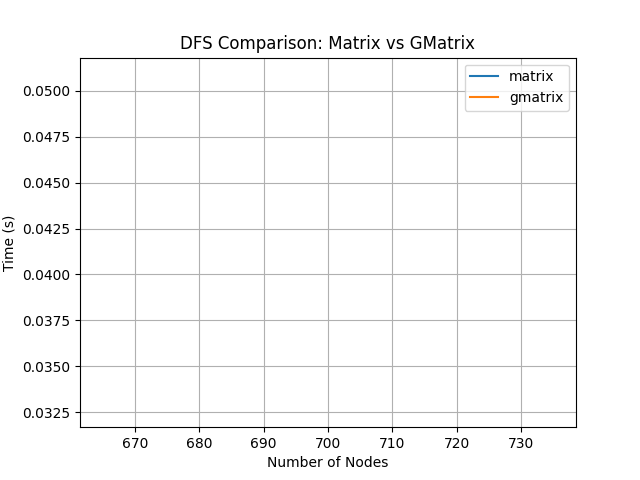
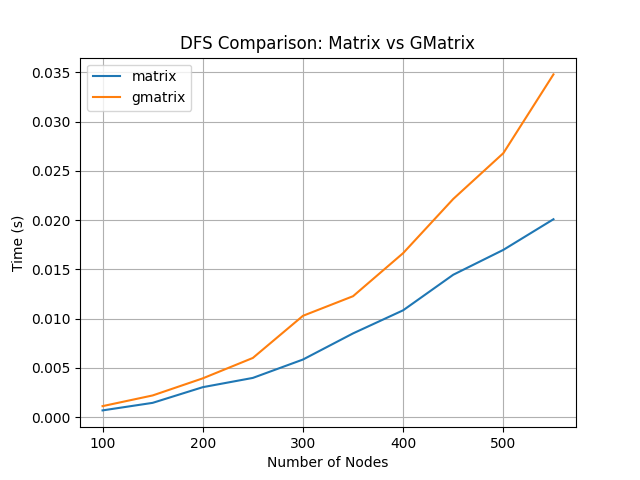
AIDS -- Graphs -- Made plots

diff --git a/AIDS/Graphs/main.py b/AIDS/Graphs/main.py
@@ -40,7 +40,7 @@ def save_result(cursor, nodes, method, matrix_type, duration):
 
 def run_tests():
     conn, cursor = setup_db()
-    tests = [700]
+    tests = [100, 150, 200, 250, 300, 350, 400, 450, 500, 550]
 
     for n in tests:
         print("generating dag: ", n)
@@ -119,7 +119,7 @@ def plot_results():
 
 
 if __name__ == "__main__":
-    #run_tests()
+    run_tests()
     plot_results()
     #edges, n = read_from_file()
     #print_matrix(build_graph_matrix(n, edges))
